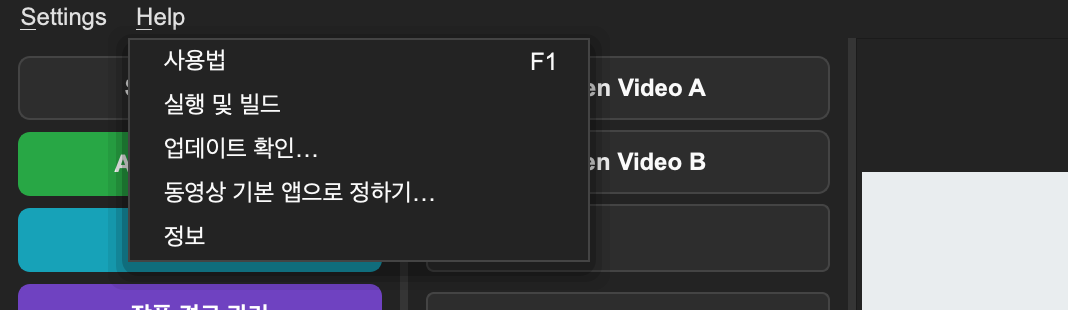
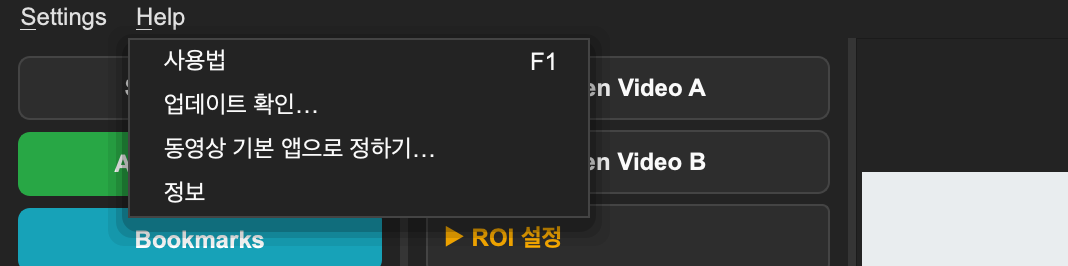
Help: 개발용 항목 '실행 및 빌드'를 뺌 — 배포한 앱에서는 '스크립트 없음' 경고만 뜨던 메뉴
사용자 질문 "헬프에 실행및 빌드가 왜 있는 거지? 필요없으면 제거하는 게 낫지 않아?".
- 소스 폴더의 run_app.sh·build_app.sh를 새 터미널에서 돌리던 창(Mac에서만 보임). 배포한 앱에는 그 스크립트가 없음.
- player_base의 메뉴 항목·show_run_and_build_dialog(61줄)·쓰이지 않게 된 import 둘, README의 언급, 매뉴얼 Help 표의 한 줄 삭제.
- help_menu 그림 다시 찍음. 실행·빌드는 터미널에서 ./run_app.sh·./build_app.sh 그대로.

diff --git a/yesoncheck/player_base.py b/yesoncheck/player_base.py
@@ -2,7 +2,6 @@
 
 import datetime
 import os
-import subprocess
 import sys
 import time
 import traceback
@@ -23,7 +22,6 @@ from PyQt5.QtWidgets import (
     QCheckBox,
     QComboBox,
     QDialog,
-    QDialogButtonBox,
     QHBoxLayout,
     QLayout,
     QLabel,
@@ -1359,11 +1357,6 @@ class VideoPlayerBase(PlayerHoverThumbsMixin, PlayerOcrMixin, PlayerOverlayMixin
         help_action.setShortcut('F1')
         help_action.triggered.connect(self.show_help)
         
-        # 실행 및 빌드 (원클릭, Mac 개발 환경 전용: run_app.sh·build_app.sh)
-        if not paths.IS_WINDOWS:
-            run_build_action = help_menu.addAction('실행 및 빌드')
-            run_build_action.triggered.connect(self.show_run_and_build_dialog)
-
         # 업데이트 확인 (NAS·GitHub — 결과 창을 언제나 보임, PlayerUpdateMixin)
         update_check_action = help_menu.addAction('업데이트 확인…')
         update_check_action.triggered.connect(lambda: self.start_update_check(manual=True))
@@ -1604,67 +1597,6 @@ class VideoPlayerBase(PlayerHoverThumbsMixin, PlayerOcrMixin, PlayerOverlayMixin
             QMessageBox.critical(self, "ffmpeg 없음", str(exc))
             return None
 
-    def show_run_and_build_dialog(self):
-        """실행 및 빌드를 원클릭 버튼으로 제공하는 다이얼로그."""
-        # 프로젝트 루트 (yesoncheck 패키지의 상위 디렉터리)
-        project_root = os.path.dirname(os.path.dirname(os.path.abspath(__file__)))
-        run_script = os.path.join(project_root, "run_app.sh")
-        build_script = os.path.join(project_root, "build_app.sh")
-
-        dialog = QDialog(self)
-        dialog.setWindowTitle("실행 및 빌드")
-        layout = QVBoxLayout(dialog)
-
-        layout.addWidget(QLabel("명령어 복사 없이 버튼 한 번으로 실행하거나 빌드할 수 있습니다."))
-        layout.addSpacing(12)
-
-        run_btn = QPushButton("▶ 앱 실행 (개발 모드)")
-        run_btn.setToolTip("새 터미널에서 YesonCheck를 개발 모드로 실행합니다.")
-        def on_run():
-            if not os.path.isfile(run_script):
-                QMessageBox.warning(dialog, "스크립트 없음", f"run_app.sh를 찾을 수 없습니다:\n{run_script}")
-                return
-            try:
-                if sys.platform == "darwin":
-                    esc = project_root.replace("\\", "\\\\").replace('"', '\\"')
-                    subprocess.Popen(["osascript", "-e", f'tell application "Terminal" to do script "cd \\"{esc}\\" && ./run_app.sh"'])
-                elif sys.platform == "win32":
-                    subprocess.Popen(["cmd", "/c", "start", "cmd", "/k", "run_app.bat"], cwd=project_root, shell=False)
-                else:
-                    subprocess.Popen(["x-terminal-emulator", "-e", f"bash '{run_script}'; exec bash"], cwd=project_root)
-                QMessageBox.information(dialog, "실행", "새 터미널에서 앱이 실행됩니다.")
-            except Exception as e:
-                QMessageBox.critical(dialog, "오류", f"실행 실패:\n{e}")
-        run_btn.clicked.connect(on_run)
-        layout.addWidget(run_btn)
-
-        build_btn = QPushButton("📦 macOS 앱 빌드 (PyInstaller)")
-        build_btn.setToolTip("새 터미널에서 PyInstaller로 .app 번들을 생성합니다.")
-        def on_build():
-            if not os.path.isfile(build_script):
-                QMessageBox.warning(dialog, "스크립트 없음", f"build_app.sh를 찾을 수 없습니다:\n{build_script}")
-                return
-            try:
-                if sys.platform == "darwin":
-                    esc = project_root.replace("\\", "\\\\").replace('"', '\\"')
-                    subprocess.Popen(["osascript", "-e", f'tell application "Terminal" to do script "cd \\"{esc}\\" && ./build_app.sh"'])
-                elif sys.platform == "win32":
-                    subprocess.Popen(["cmd", "/c", "start", "cmd", "/k", "build_app.bat"], cwd=project_root, shell=False)
-                else:
-                    subprocess.Popen(["x-terminal-emulator", "-e", f"bash '{build_script}'; exec bash"], cwd=project_root)
-                QMessageBox.information(dialog, "빌드", "새 터미널에서 빌드가 시작됩니다. 완료 시 dist/YesonCheck_Autocut.app 에서 확인하세요.")
-            except Exception as e:
-                QMessageBox.critical(dialog, "오류", f"빌드 실행 실패:\n{e}")
-        build_btn.clicked.connect(on_build)
-        layout.addWidget(build_btn)
-
-        layout.addSpacing(8)
-        layout.addWidget(QLabel("※ 터미널에서 로그를 확인할 수 있습니다."))
-        button_box = QDialogButtonBox(QDialogButtonBox.Ok)
-        button_box.accepted.connect(dialog.accept)
-        layout.addWidget(button_box)
-        dialog.exec_()
-    
     def show_about(self):
         """프로그램 정보를 표시합니다."""
         today_str = korean_date(datetime.date.today())

diff --git a/tests/test_settings_menu.py b/tests/test_settings_menu.py
@@ -101,3 +101,16 @@ def test_no_player_class_silently_shadows_a_name_of_a_later_one():
                 continue
             shadowed.append(f"{cls.__name__}.{name} 가 {', '.join(later)} 의 것을 가림")
     assert shadowed == []
+
+
+def help_texts(player):
+    [action] = [a for a in player.menuBar().actions() if a.text() == "&Help"]
+    return [a.text() for a in action.menu().actions()]
+
+
+def test_help_menu_has_no_developer_run_and_build_item(player):
+    """Help의 '실행 및 빌드'는 소스 폴더의 run_app.sh·build_app.sh를 돌리던 개발용 항목 — 배포한 앱에는 그 스크립트가 없어
+    누르면 '스크립트 없음' 경고만 떴음(2026-11-12 사용자 결정으로 뺌)."""
+    assert "실행 및 빌드" not in help_texts(player)
+    assert "사용법" in help_texts(player) and "정보" in help_texts(player)
+    assert not hasattr(player, "show_run_and_build_dialog")

diff --git a/yesoncheck/manual_content.py b/yesoncheck/manual_content.py
@@ -562,7 +562,6 @@ PAGES = (
              ("h", "Help 메뉴", "help"),
              ("table", None, (
                  ("사용법", "이 매뉴얼을 엽니다 ({F1})."),
-                 ("실행 및 빌드", "개발용 항목입니다 (Mac) — 검수에는 쓰지 않습니다."),
                  ("업데이트 확인…", "새 버전이 있는지 바로 확인합니다. → [[update]]"),
                  ("동영상 기본 앱으로 정하기… / 동영상 기본 앱 설정 열기…", "위의 기본 앱 설정 (Mac / Windows)."),
                  ("정보", "지금 버전을 보입니다."),
